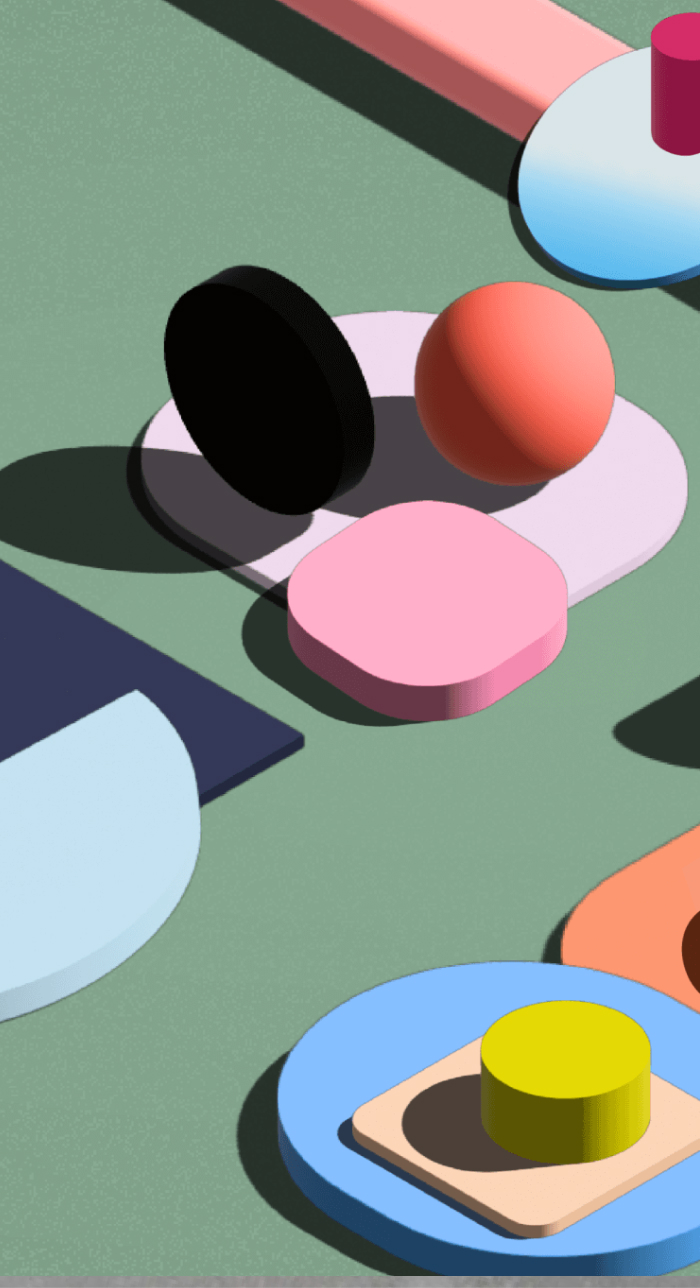
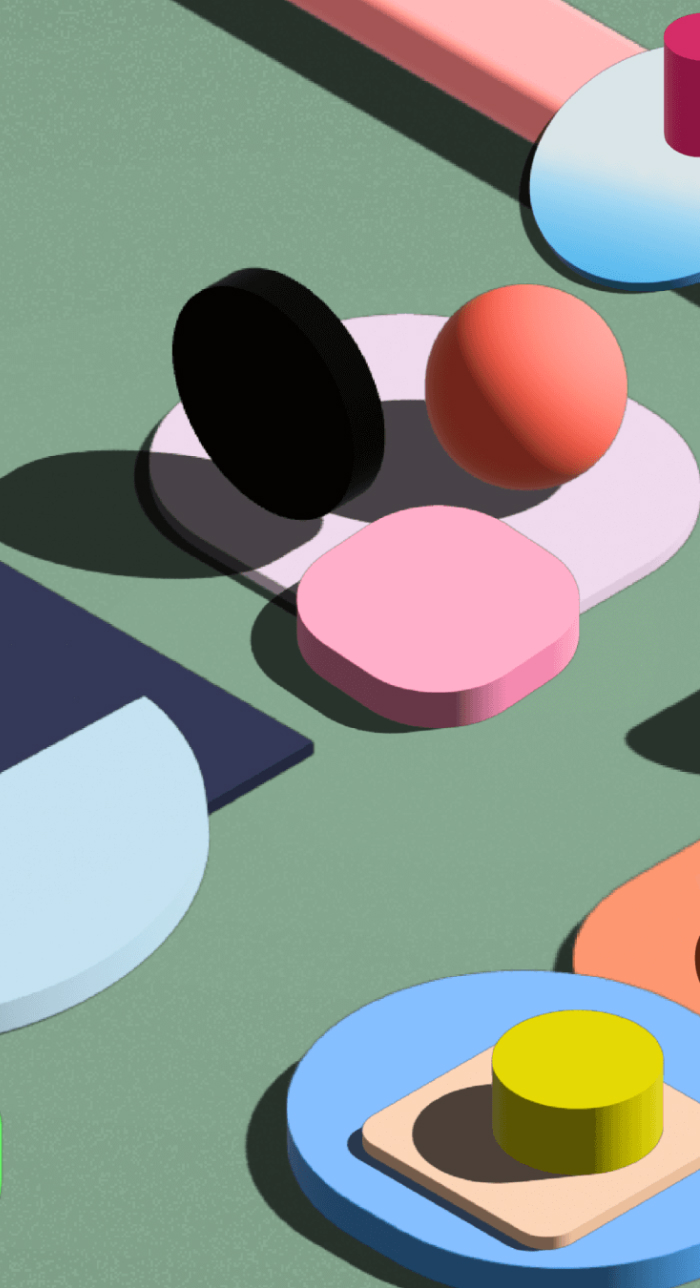
KVタイトル位置修正

diff --git a/assets/css/style.css b/assets/css/style.css
@@ -1448,7 +1448,7 @@ a {
 .top-kv__message-bg {
   width: 218px;
   position: absolute;
-  bottom: 0;
+  top: 0;
   left: 0;
 }
 @media screen and (min-width: 768px) {

diff --git a/src/scss/pages/_top-kv.scss b/src/scss/pages/_top-kv.scss
@@ -35,7 +35,7 @@
   &__message-bg{
     width: 218px;
     position: absolute;
-    bottom: 0;
+    top: 0;
     left: 0;
 
     @include mq(md){

diff --git a/index.php b/index.php
@@ -35,10 +35,13 @@ get_header();
         <div class="top-kv__message-bg u-visible-md-up">
             <p class="top-section__title">
                 <span class="top-section__title-text top-section__title-text--kv" data-inview data-bg-clip-to-right data-delay="0.4">
-                ENRICHING THE WORLD WITH
+                ENRICHING THE WORLD
                 </span><br>
                 <span class="top-section__title-text top-section__title-text--kv" data-inview data-bg-clip-to-right data-delay="0.45">
-                OUR COLORS AND TECHNOLOGY 
+                WITH OUR COLORS
+                </span><br>
+                <span class="top-section__title-text top-section__title-text--kv" data-inview data-bg-clip-to-right data-delay="0.5">
+                AND TECHNOLOGY 
                 </span>
             </p>
         </div>
